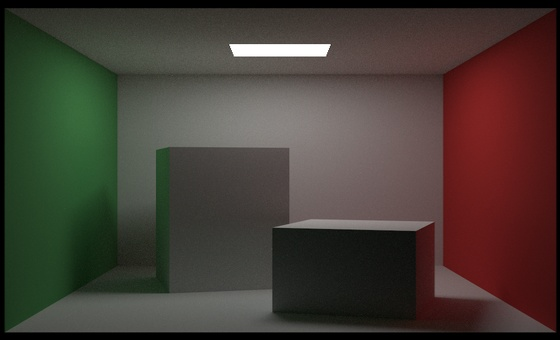
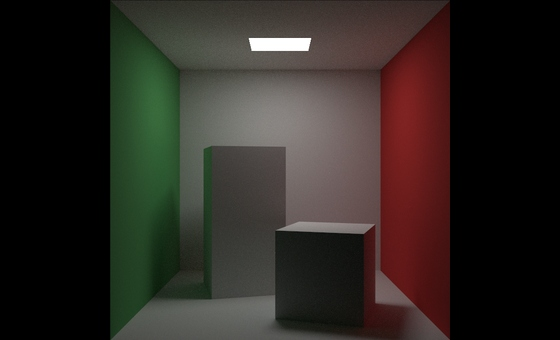
Fix MiniTracer thumbnail scaling and remove bottom black artifact

diff --git a/app.js b/app.js
@@ -114,7 +114,7 @@ function renderTimeline() {
 
     // Apply specific CSS class if the thumbnail needs object-fit: contain
     let fitClass = "";
-    if (project.title.toLowerCase().includes("chip-8")) {
+    if (project.title.toLowerCase().includes("chip-8") || project.title.toLowerCase().includes("minitracer")) {
       fitClass = "fit-contain";
     } else if (
       project.title.toLowerCase().includes("arrival time") || 
